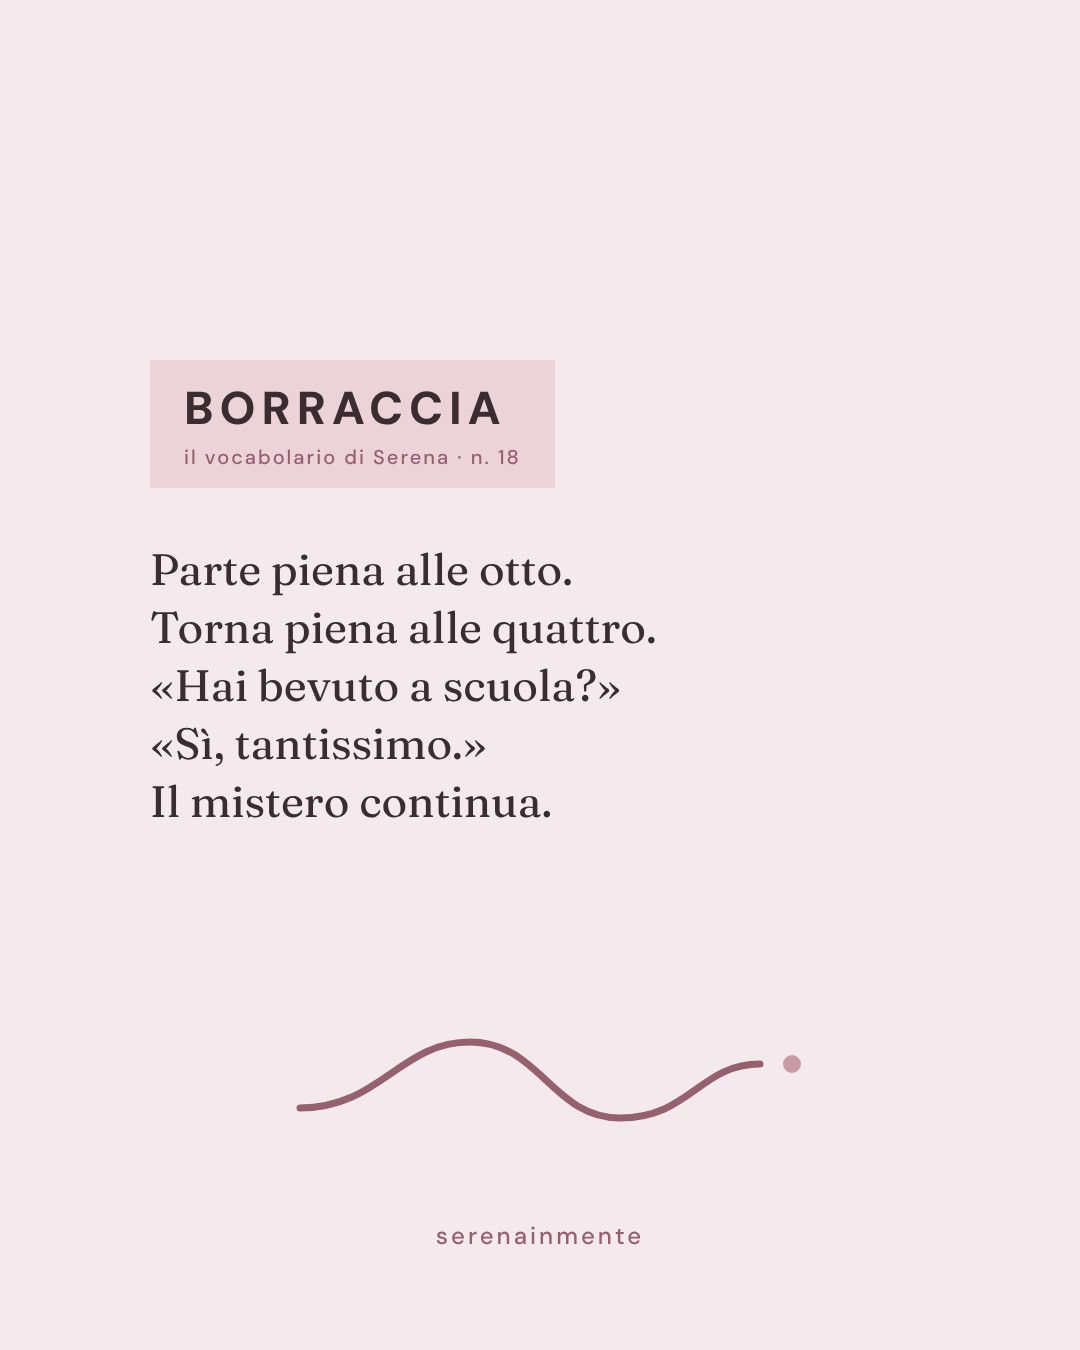
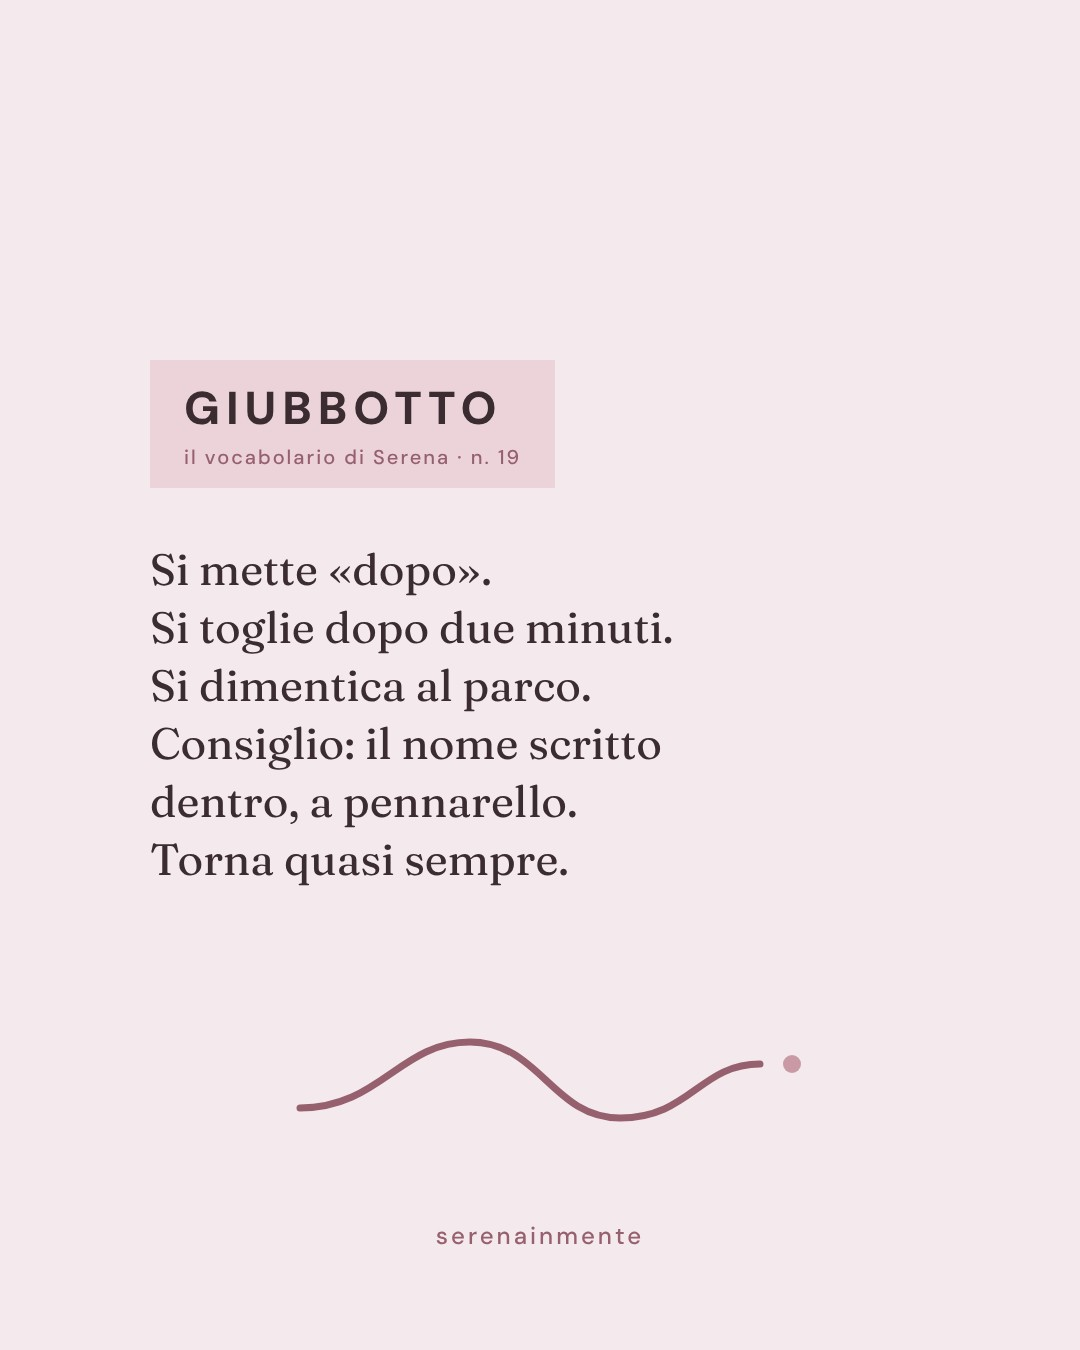
Post 22/11: tolta «Lista della spesa», nuova copertina «Borraccia»; render.js: righe fisse del titolo, etichetta colorata senza verde
Claude-Session: https://claude.ai/code/session_01PexKGrEoahLuMFXSH7a2SF

Changed region(s): [[0.1222, 0.4044, 0.6111, 0.6533], [0.1528, 0.28, 0.4583, 0.3111]]

diff --git a/gen/grafiche/render.js b/gen/grafiche/render.js
@@ -92,7 +92,7 @@ function corpo(it) {
   }
   const piede = `${filoMini}<div class="firma">serenainmente</div>`;
   if (tipo === 'copertina')
-    return `<div class="k">${it.rubrica ? `<div class="pill"${it.accento ? ` style="background:${it.accento};color:${it.accentoTesto || '#FBF6F4'}"` : ''}>${esc(it.rubrica)}</div>` : ''}<div class="eti">${esc(it.etichetta)}</div><div class="tit">${esc(it.titolo)}</div>${it.sottotitolo ? `<div class="sot">${esc(it.sottotitolo)}</div>` : ''}${it.aggiornato ? `<div class="agg">${esc(it.aggiornato)}</div>` : ''}</div><div class="scorri">scorri →</div>${piede}`;
+    return `<div class="k">${it.rubrica ? `<div class="pill"${it.accento ? ` style="background:${it.accento};color:${it.accentoTesto || '#FBF6F4'}"` : ''}>${esc(it.rubrica)}</div>` : ''}<div class="eti">${esc(it.etichetta)}</div><div class="tit"${it.righe ? ` data-righe="${it.righe}"` : ''}>${esc(it.titolo)}</div>${it.sottotitolo ? `<div class="sot">${esc(it.sottotitolo)}</div>` : ''}${it.aggiornato ? `<div class="agg">${esc(it.aggiornato)}</div>` : ''}</div><div class="scorri">scorri →</div>${piede}`;
   if (tipo === 'passo')
     return `<div class="k"><div class="num">${esc(it.numero)}</div><div class="pt">${esc(it.titolo)}</div><div class="px">${esc(it.testo)}</div></div>${piede}`;
   if (tipo === 'chiusura')
@@ -119,7 +119,7 @@ function corpo(it) {
     const tipo = it.tipo || 'frase';
     const bg = it.sfondo || (it.scura ? '#6E4A55' : SFONDI[tipo]) || '#FBF6F4';
     const h = it.story ? 1920 : 1350;
-    const cls = `c ${it.densa ? 'densa ' : ''}${(it.rub || it.rubrica) ? 'rub ' : ''}${tipo === 'frase' ? (it.stile || '') + (it.parola ? ' parola' + (String(it.frase || '').split('\n').length > 4 ? ' lunga' : '') : '') : ''} ${it.story ? 'story' : ''}${it.scura ? ' scura' : ''}${it.v2 ? ' v2' : ''}`;
+    const cls = `c ${it.densa ? 'densa ' : ''}${(it.rub || (it.rubrica && !it.accento)) ? 'rub ' : ''}${tipo === 'frase' ? (it.stile || '') + (it.parola ? ' parola' + (String(it.frase || '').split('\n').length > 4 ? ' lunga' : '') : '') : ''} ${it.story ? 'story' : ''}${it.scura ? ' scura' : ''}${it.v2 ? ' v2' : ''}`;
     await page.setViewportSize({ width: 1080, height: h });
     await page.setContent(`<!doctype html><html><head><meta charset="utf-8"><style>${css}</style></head><body><div class="${cls}" style="background:${bg}">${corpo(it)}</div></body></html>`, { waitUntil: 'load' });
     await page.evaluate(() => document.fonts.ready);
@@ -127,7 +127,7 @@ function corpo(it) {
       const fit = (el, max, min, righe) => { if (!el) return; let fs = max; el.style.fontSize = fs + 'px';
         const lh = () => parseFloat(getComputedStyle(el).lineHeight);
         while (fs > min && (el.scrollWidth > el.clientWidth + 1 || (el.classList.contains('f') && el.scrollHeight > el.clientHeight + 1) || (!el.classList.contains('f') && el.getBoundingClientRect().height / lh() > righe + 0.2))) { fs -= 4; el.style.fontSize = fs + 'px'; } };
-      fit(document.querySelector('.tit'), 112, 90, 4);
+      const tt = document.querySelector('.tit'); fit(tt, 112, tt && tt.dataset.righe ? 60 : 90, tt && tt.dataset.righe ? Number(tt.dataset.righe) : 4);
       fit(document.querySelector('.f'), 96, 72, 4);
     });
     // controllo: il testo non deve uscire dal riquadro
